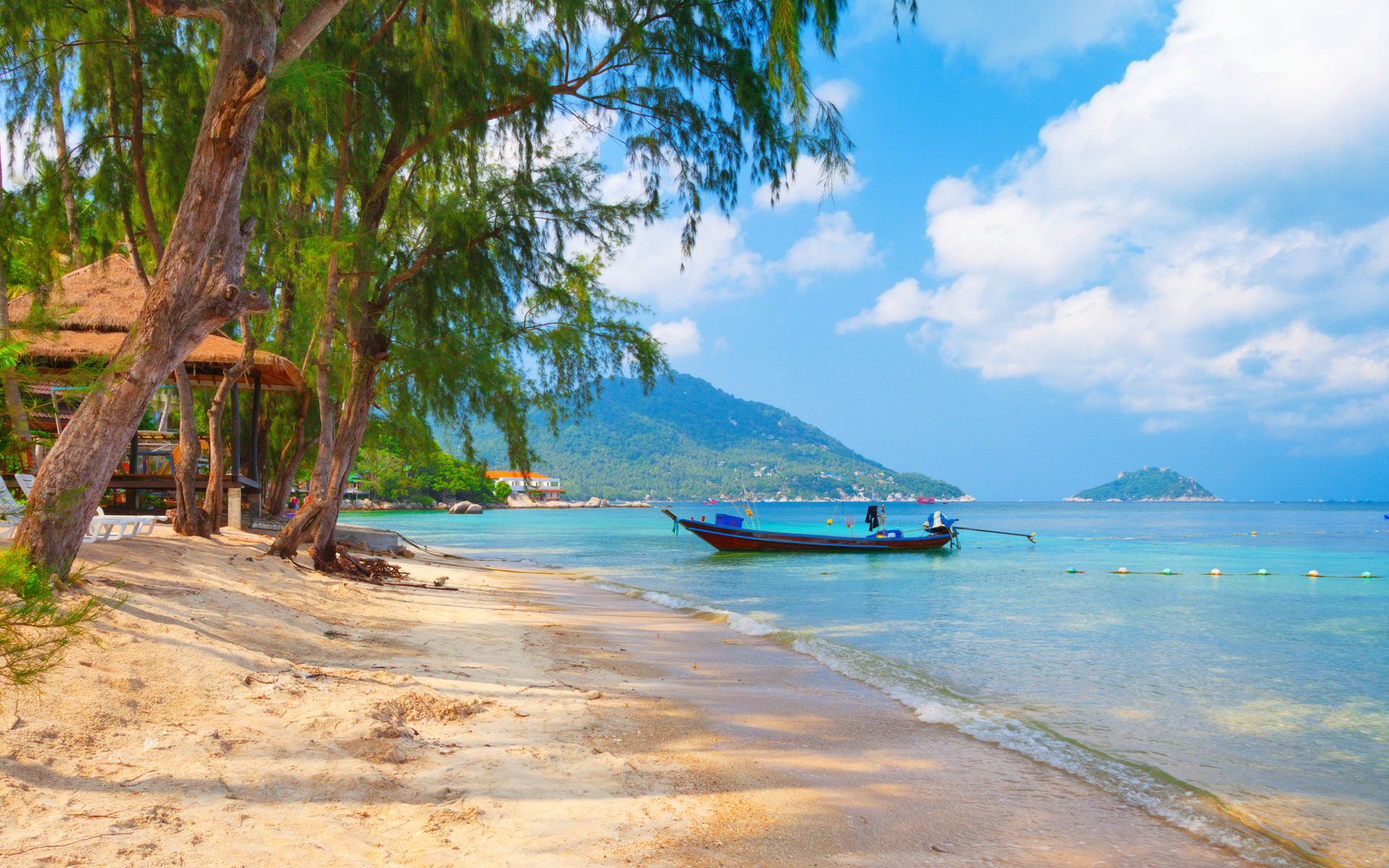
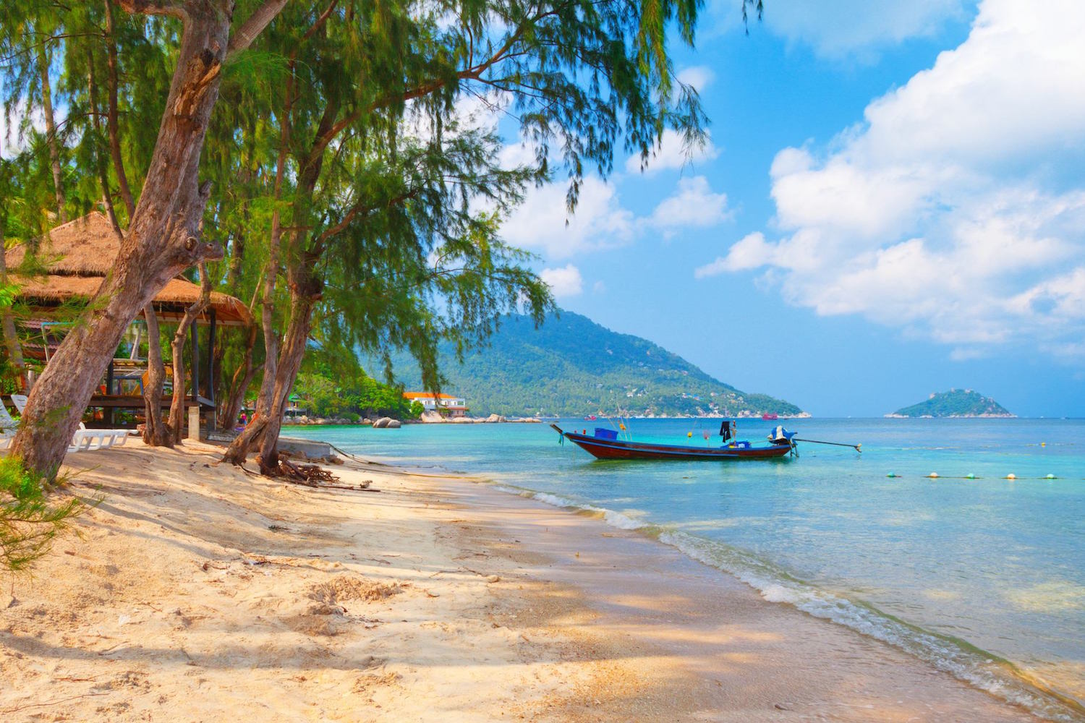
Add caption to the main content image and start styling for tablet

diff --git a/css/styles.css b/css/styles.css
@@ -15,7 +15,7 @@
   height: 100%;
 }*/
 
-body {
+html, body {
   margin: 0px;
 }
 
@@ -32,18 +32,17 @@ body {
   font-family: 'Arimo', sans-serif;
 }
 
-/*--------- Navigation ------------*/
+.wrapper {
+  width: 90%;
+  margin: 0 auto;
+  overflow: auto;
+}
+
+/*--------- Header / Navigation ------------*/
 
 .header {
   background-color: white;
   margin-top: 1em;
-}
-
-nav {
-  background-color: #EEEEEE;
-  overflow: auto;
-  padding: .8em 0;
-  clear: both;
 }
 
 .header img {
@@ -52,6 +51,13 @@ nav {
   padding: .7em 0;
   margin-left: auto;
   margin-right: auto;
+}
+
+nav {
+  background-color: #EEEEEE;
+  overflow: auto;
+  padding: .8em 0;
+  clear: both;
 }
 
 nav ul {
@@ -67,49 +73,134 @@ nav li {
   font-size: 12px;
 }
 
-.wrapper {
-  width: 95%;
-  margin: 0 auto;
-  overflow: auto;
-}
+/*--------- Header / Navigation ------------*/
 
-.mainContent {
+/*.mainContent {
   clear: both;
   overflow: auto;
+  overflow: hidden;
   display: block;
+  border: 1px solid red;
+  margin: 0px;
+  padding: 0px;
+  height: 50vh;
+}*/
+
+.mainContent {
+  background-image: url("../img/kohtao.jpg");
+  height: 40vh;
+  background-size: cover;
 }
 
-.mainContent img {
+/*.mainContent img {
   width: 100%;
+  height: 40vh;
   object-fit: cover;
+}*/
+
+.location {
+  position: relative;
+  top: 75%;
+  left: 10%;
 }
+
+.location p {
+  color: white;
+  text-shadow: 2px 2px 2px black;
+  font-size: 18px;
+  line-height: 5px;
+}
+
+.location p:nth-child(2) {
+  text-transform: uppercase;
+  color: white;
+  text-shadow: 2px 2px 2px black;
+  font-size: 14px;
+}
+
+/*--------- Sub Content ------------*/
 
 .subContent1, .subContent2{
-  height: 150px;
+  min-height: 220px;
+  height: 33.2vh;
   width: 100%;
   margin-top: 18px;
   overflow: auto;
+  background-color: white;
+  padding: 1em;
 }
+
+/* Sub Content 1 */
+
+.subContent1 {
+  text-align: center;
+  text-transform: uppercase;
+}
+
+.subContent1 p {
+  font-size: 12px;
+}
+
+.subContent1 h2 {
+  font-family: 'Patua One', cursive;
+}
+
+/* Sub Content 1 */
+
+.subContent2 p {
+  font-size: 14px;
+  letter-spacing: .2px;
+}
+
 
 /* MEDIA QUERIES
 ======================*/
 
-@media only screen and (min-width: 768px) {
+@media only screen and (min-width: 619px) {
 
-  .subContent {
-    height: 50vh;
+  .wrapper {
+    width: 100%;
   }
+
+  .header {
+    position: absolute;
+    width: 175px;
+    top: 5%;
+    left: 10%;
+  }
+
+  .header img {
+    margin: 0 2em;
+  }
+
+  nav ul {
+    padding-left: 2em;
+  }
+
+  nav li {
+    float: none;
+    text-align: left;
+    margin: .5em;
+  }
+
+  .mainContent img {
+    width: 100%;
+    height: 65vh;
+    object-fit: cover;
+  }
+
+  /*.subContent {
+    height: 50vh;
+  }*/
 
   .subContent1 {
     float: left;
     width: 49%;
-    height: 90%;
   }
 
   .subContent2{
     float: right;
     width: 49%;
-    height: 90%;
   }
 }
 

diff --git a/index.html b/index.html
@@ -3,7 +3,7 @@
   <head>
     <link rel="stylesheet" href="css/styles.css">
     <meta name="viewport" content="width=device-width">
-    <link href='https://fonts.googleapis.com/css?family=Arimo:400,400italic,700,700italic' rel='stylesheet' type='text/css'>
+    <link href='https://fonts.googleapis.com/css?family=Arimo:400,400italic,700,700italic|Patua+One' rel='stylesheet' type='text/css'>
     <title>Big Blue</title>
   </head>
   <body>
@@ -19,13 +19,24 @@
           </ul>
         </nav>
       </div>
+
       <div class="mainContent">
-        <img src="img/kohtao.jpg" alt="Koh Tao Thailand">
+        <div class="location">
+          <p>Sairee Beach</p>
+          <p>Koh Tao, Thailand</p>
+        </div>
+        <!-- <img src="img/kohtao.jpg" alt="Koh Tao Thailand"> -->
       </div>
+
       <div class="subContent">
         <div class="subContent1">
+          <p>Featured Course</p>
+          <h2>Open Water Dive</h2>
         </div>
         <div class="subContent2">
+          <p>
+            A Scuba Diving Resort, an SSI Diamond Instructor Training Center, a BSAC Center of Excellence and a 5 Star TDI Instructor Training Facility Big Blue Diving has a fantastic beachfront location to the northern more tranquil end of Sairee Beach, a 16 room private guesthouse &#38; one 3 bedroom family villa with private swimming pool set in a quiet location just a 5 minute walk from the beach and our Dive Resort.
+          </p>
         </div>
       </div>
     </div>
